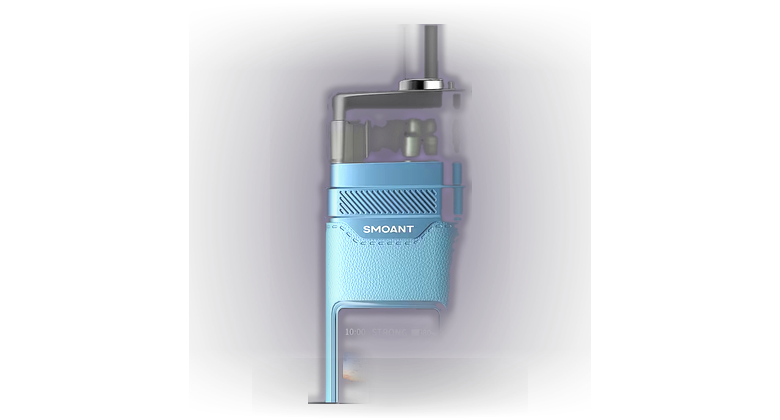
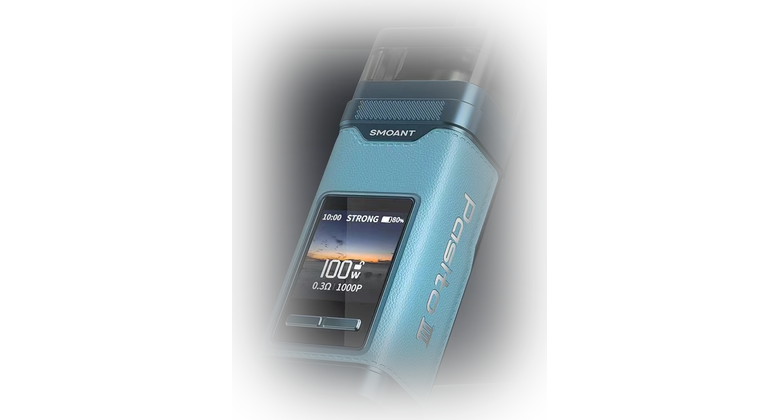
dev21 PASITO 3: карточки из официальных фото — устройство целиком (не обрезано), тёмный фон, все 8 цветов; кэш 20261012a

Changed region(s): [[0.3385, 0.031, 0.7385, 0.9595], [0.2462, 0.1548, 0.3077, 0.8357]]

diff --git a/app.js b/app.js
@@ -20,7 +20,7 @@ let discountPick = localStorage.getItem("vo_disc") || null; // жижа, на к
 
 const $ = s=>document.querySelector(s);
 const money = n=>n+"₽";
-const IMG_VER = "20261011f";
+const IMG_VER = "20261012a";
 const imgv = u => u ? (u.indexOf("?")>=0 ? u : u+"?v="+IMG_VER) : u;
 const byId = id=>PRODUCTS.find(p=>p.id===id);
 const catEmoji = c=>({liquids:"🧪",pods:"🔌",disposable:"💨",cartridges:"♻",snus:"📦"}[c]||"•");
